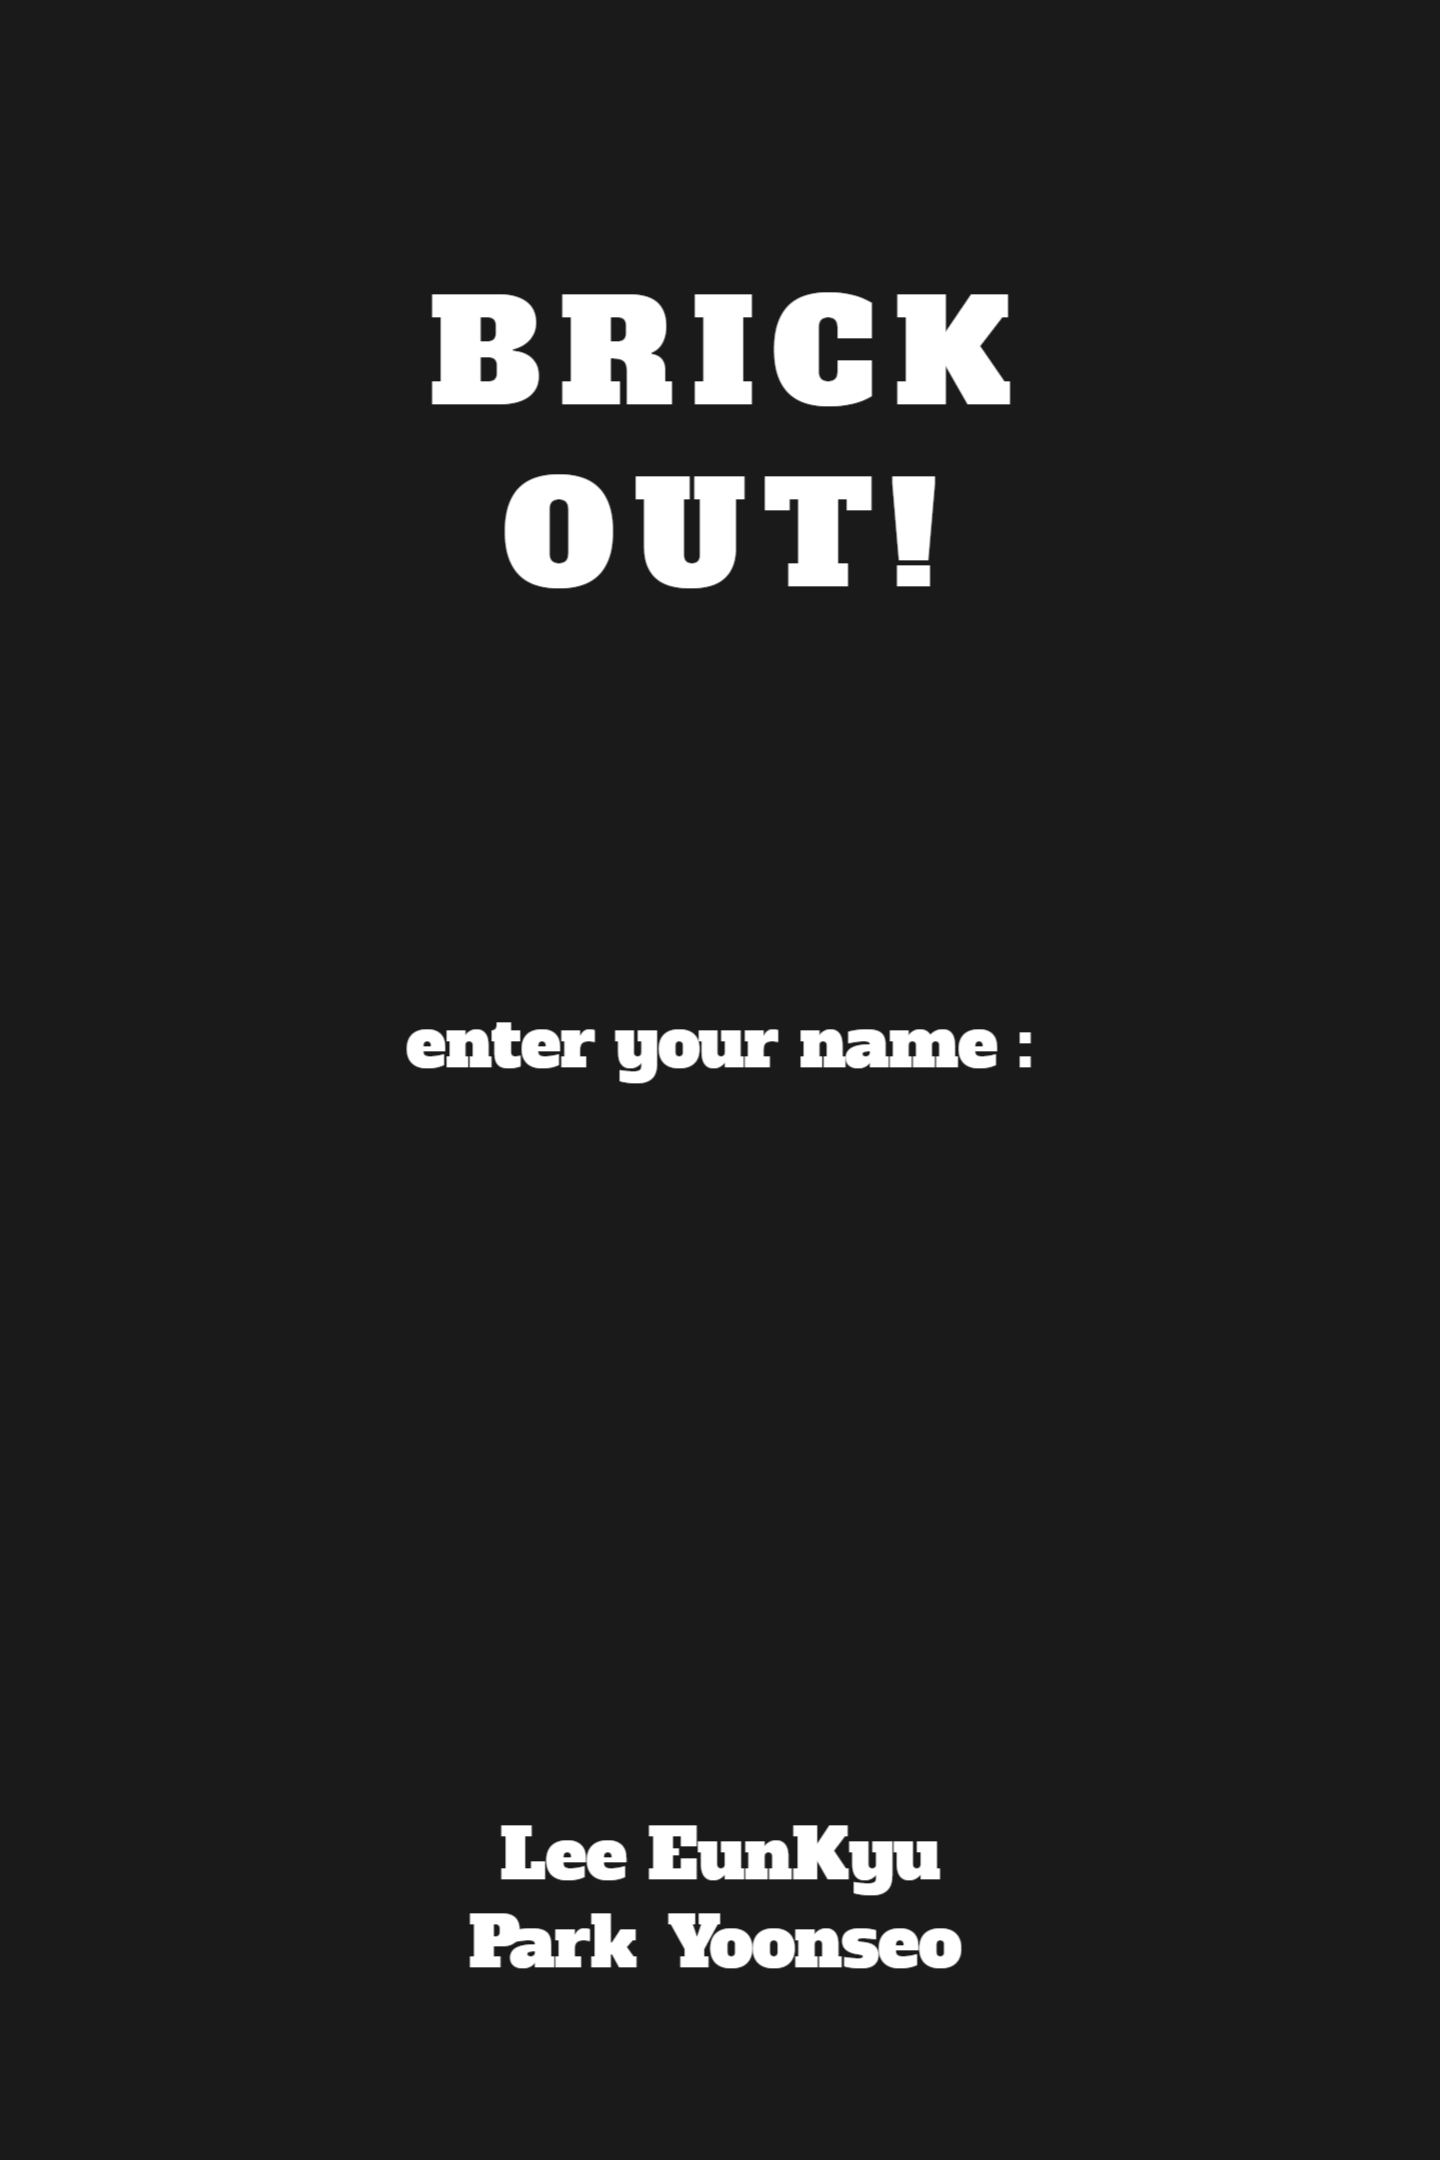
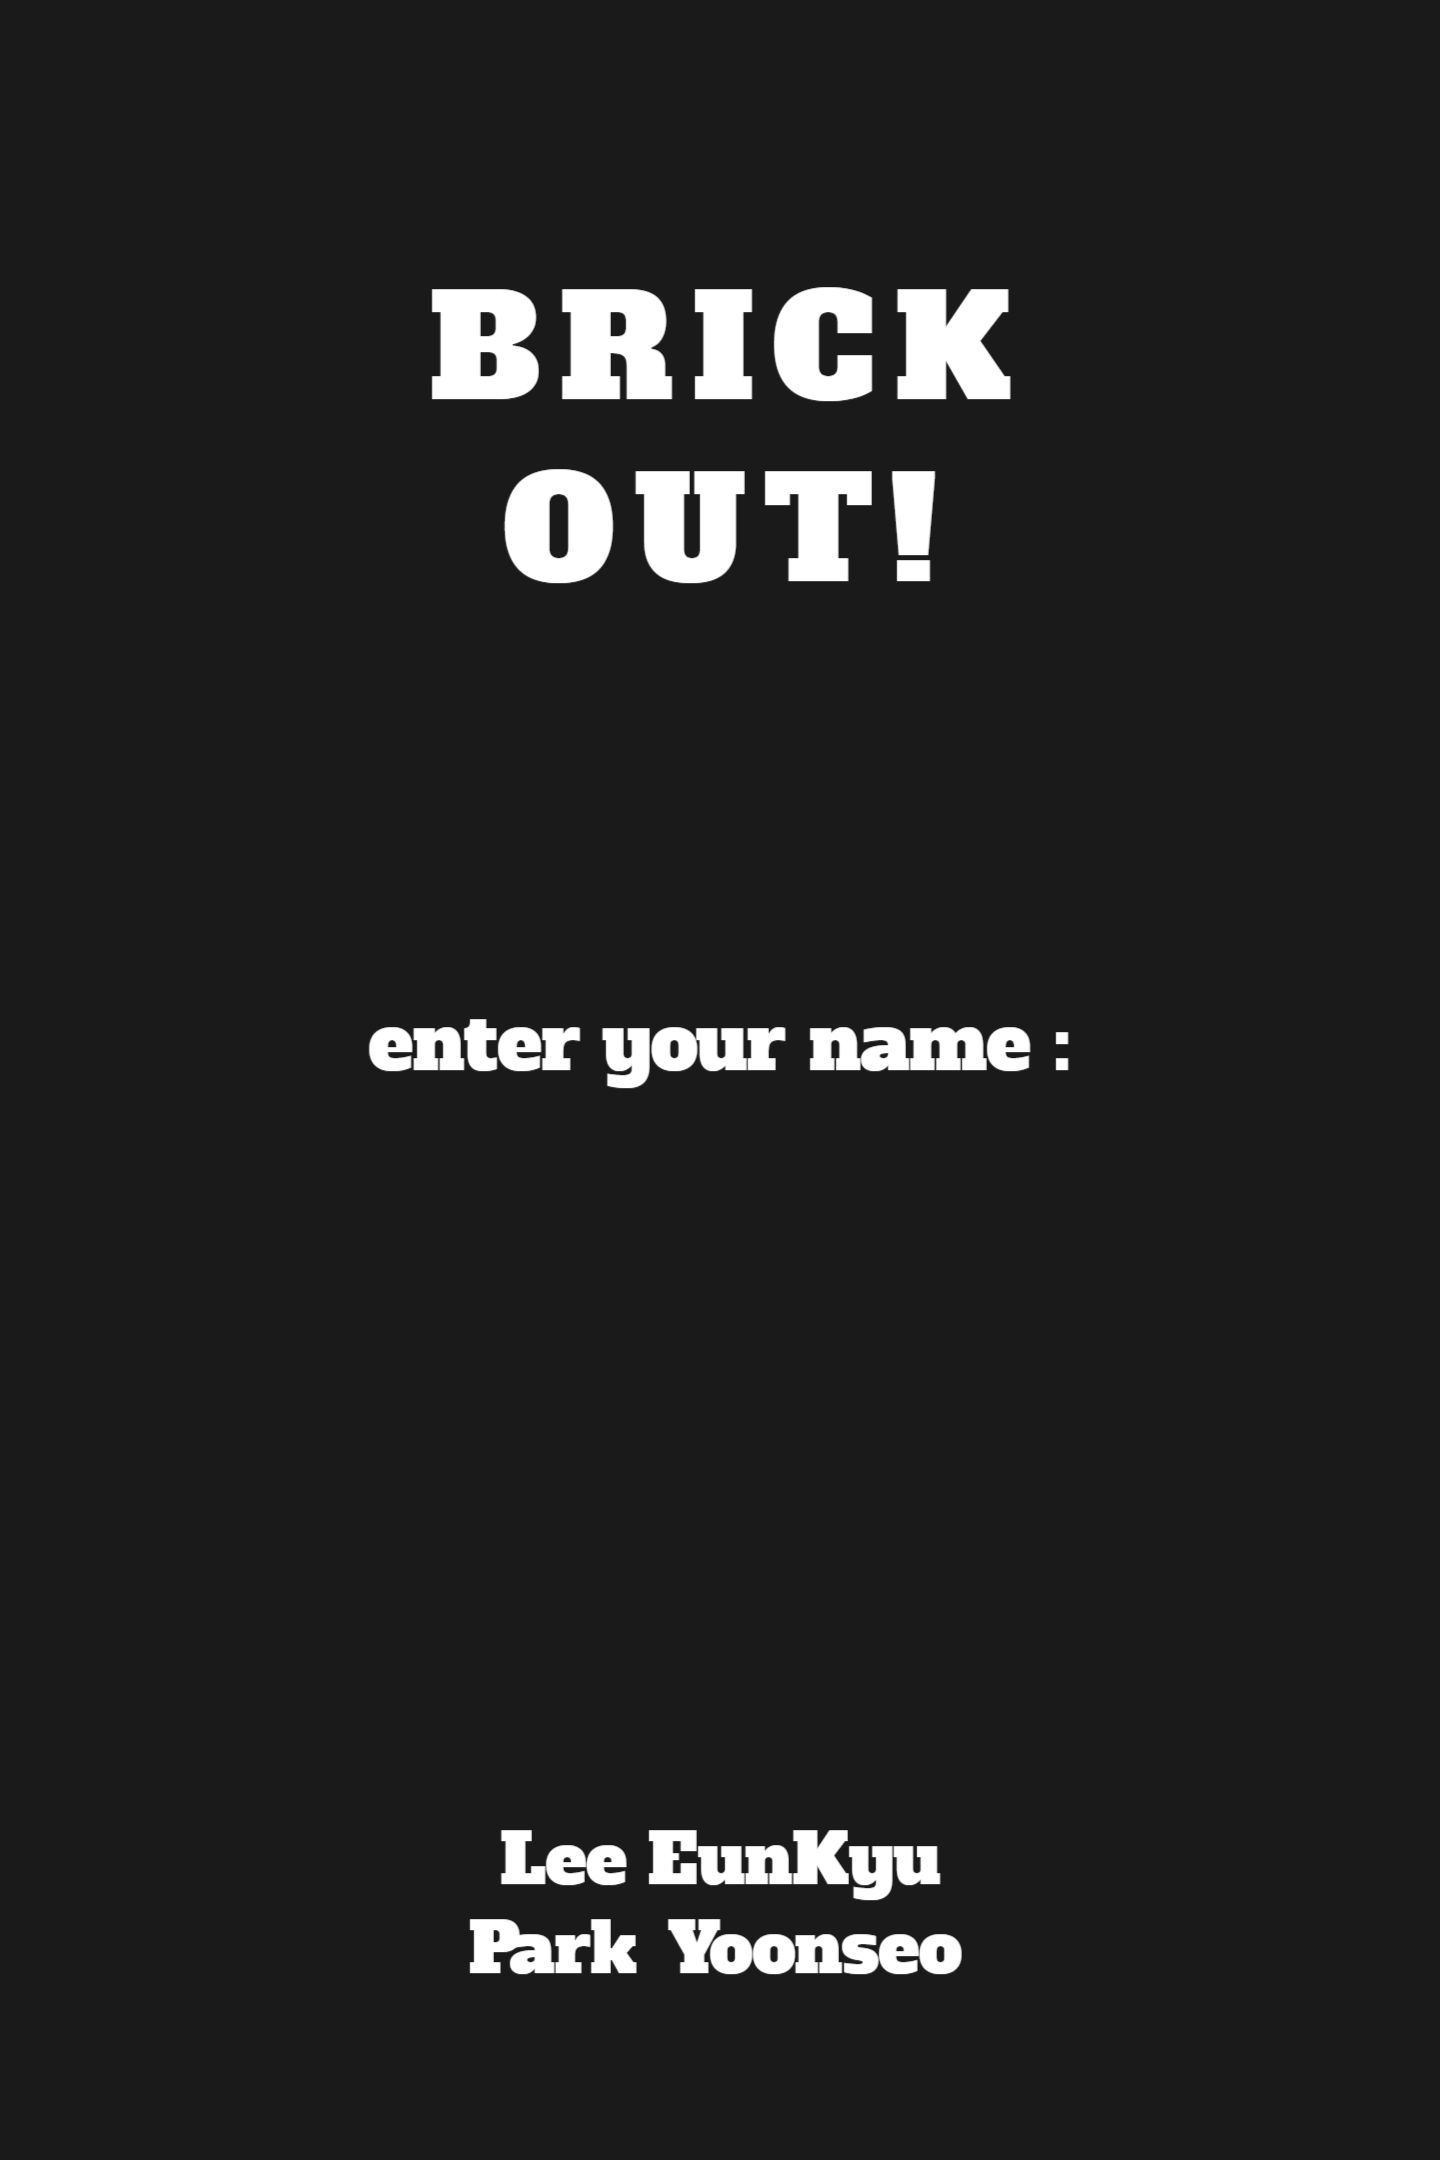
frame to frame + DifficultyFrame's image

diff --git a/src/DifficultyFrame.java b/src/DifficultyFrame.java
@@ -5,39 +5,34 @@ import java.awt.event.*;
 public class DifficultyFrame {
     private AnimationWriter AW;
     private MovingBall MB;
+    private Box box;
     private JFrame difficulty_frame;            // 여기서 정의해줘야 다른 함수에서도 사용 가능
     private boolean visible;
 
-    public DifficultyFrame(AnimationWriter aw, MovingBall mb) {
+    public DifficultyFrame(AnimationWriter aw, MovingBall mb, Box box) {
         this.AW = aw;
         this.MB = mb;
+        this.box = box;
+
+        Image beforeImage = new ImageIcon(getClass().getResource("/image/background3.png")).getImage();
+        Image afterImage = beforeImage.getScaledInstance(box.SizeOf_width(), box.SizeOf_height(), Image.SCALE_SMOOTH);
+        ImageIcon backgroundIcon3 = new ImageIcon(afterImage);
 
         difficulty_frame = new JFrame();                 // JFrame 객체 생성
-        difficulty_frame.setDefaultCloseOperation(WindowConstants.EXIT_ON_CLOSE);
         difficulty_frame.setTitle("DIFFICULTY");                // title
-        difficulty_frame.setSize( 480, 720);        // frame size
+        difficulty_frame.setSize( box.SizeOf_width(), box.SizeOf_height());        // frame size
         difficulty_frame.setResizable(false);                   // 크기조절
         difficulty_frame.setLocationRelativeTo(null);
+        difficulty_frame.setDefaultCloseOperation(JFrame.EXIT_ON_CLOSE);
 
-        JPanel difficultly_panel = new JPanel();                // JPanel 객체 생성
-        difficultly_panel.setBackground(Color.black);
+        // JPanel 객체 생성
+        JPanel difficultly_panel = createPanel(backgroundIcon3, 0, 0);
+        difficultly_panel.setLayout(new GridBagLayout());
 
         // slow button (easy)
-        JButton easyButton = new JButton("Easy");
-        easyButton.setBorder(BorderFactory.createLineBorder(Color.black, 1));    // 마우스 가져다 댔을 때 변화 X
-        easyButton.setPreferredSize(new Dimension(150, 60));                // 버튼 크기
-        easyButton.setBackground(Color.gray);                                           // 버튼 배경 색
-        difficultly_panel.add(easyButton);
-
-        // fast button (hard)
-        JButton hardButton = new JButton("Hard");
-        hardButton.setBorder(BorderFactory.createLineBorder(Color.black, 1));
-        hardButton.setPreferredSize(new Dimension(150, 60));
-        hardButton.setBackground(Color.gray);
-        difficultly_panel.add(hardButton);
-
-        // button Event
-        easyButton.addActionListener(new ActionListener() {         // easybutton 동작 명령 Override
+        JButton easybutton = createButton("/image/easybutton.png", "/image/easybutton2.png");
+        addButton(difficultly_panel, easybutton, 0, 0, 100, 0, 0, 0);
+        easybutton.addActionListener(new ActionListener() {
             @Override
             public void actionPerformed(ActionEvent e) {
                 difficulty_frame.setVisible(false);
@@ -46,7 +41,11 @@ public class DifficultyFrame {
                 MB.y_vel(2);
             }
         });
-        hardButton.addActionListener(new ActionListener() {         // hardbutton 동작 명령 Override
+
+        // fast button (hard)
+        JButton hardButton = createButton("/image/hardButton.png", "/image/hardButton2.png");
+        addButton(difficultly_panel, hardButton, 1, 0, 100, 50, 0, 0);
+        hardButton.addActionListener(new ActionListener() {
             @Override
             public void actionPerformed(ActionEvent e) {
                 difficulty_frame.setVisible(false);
@@ -57,9 +56,35 @@ public class DifficultyFrame {
         });
 
         difficulty_frame.add(difficultly_panel);                // frame에 panel 추가
-        difficulty_frame.setVisible(true);                      // 보이게 함
+        difficulty_frame.setVisible(false);
     }
 
+    private JPanel createPanel(ImageIcon image, int x, int y) {
+        JPanel panel = new JPanel() {
+            @Override
+            protected void paintComponent(Graphics g) {
+                g.drawImage(image.getImage(), x, y, this);
+            }
+        };
+        return panel;
+    }
+
+    private JButton createButton(String image1, String image2) {
+        ImageIcon buttonIcon = new ImageIcon(getClass().getResource(image1));
+        ImageIcon rolloverIcon = new ImageIcon(getClass().getResource(image2));
+        JButton button = new JButton(buttonIcon);
+        button.setBorder(BorderFactory.createLineBorder(Color.black, 1));
+        button.setRolloverIcon(rolloverIcon);   // 마우스를 댔을 때의 이미지설정
+        return button;
+    }
+
+    private void addButton(Container panel, Component button, int gridx, int gridy, int top, int left, int bottom, int right) {
+        GridBagConstraints gbc = new GridBagConstraints();
+        gbc.gridx = gridx;  // 행
+        gbc.gridy = gridy;  // 열
+        gbc.insets = new Insets(top, left, bottom, right);         // 여백 추가 -> 버튼 위치 조절하려고
+        panel.add(button, gbc);
+    }
     public void setvisible(boolean n) {
         visible = n;
         difficulty_frame.setVisible(visible);

diff --git a/src/MainFrame.java b/src/MainFrame.java
@@ -3,22 +3,25 @@ import java.awt.*;
 import java.awt.event.*;
 
 public class MainFrame extends JFrame {
-    private int width = 480;
-    private int height = 720;
+    private DifficultyFrame DF;
+    private Box box;
     private JFrame MainFrame;
     private JPanel mainPanel1;
     private JPanel mainPanel2;
     private boolean visible = true;
 
-    public MainFrame() {
+    public MainFrame(DifficultyFrame DF, Box box) {
+        this.DF = DF;
+        this.box = box;
+
         // background image1
         Image beforeImage = new ImageIcon(getClass().getResource("/image/background1.png")).getImage();
-        Image afterImage = beforeImage.getScaledInstance(width, height, Image.SCALE_SMOOTH);
+        Image afterImage = beforeImage.getScaledInstance(box.SizeOf_width(), box.SizeOf_height(), Image.SCALE_SMOOTH);
         ImageIcon backgroundIcon = new ImageIcon(afterImage);
 
         MainFrame = new JFrame();
         MainFrame.setTitle("Game");
-        MainFrame.setSize(width, height);
+        MainFrame.setSize(box.SizeOf_width(), box.SizeOf_height());
         MainFrame.setResizable(false);
         MainFrame.setLocationRelativeTo(null);
         MainFrame.setDefaultCloseOperation(JFrame.EXIT_ON_CLOSE);
@@ -46,7 +49,7 @@ public class MainFrame extends JFrame {
         nameArea.add(name, BorderLayout.CENTER);
         addButton(mainPanel1, nameArea, 0, 0, 200, 0, 0, 0);    // panel1에 nameArea 추가
 
-        // 확인버튼 --> efect 추가해야됨 - 패널1
+        // 확인버튼 - 패널1 -> 이름이 입력되지 않으면 file입력하는 부분에서 IOecexption뜨게되고, 이걸 try-catch로 잡아야됨
         JButton okayButton = createButton("/image/okaybutton.png", "/image/okaybutton2.png");
         addButton(mainPanel1, okayButton, 0, 1, 20, 0, 0, 0);
         okayButton.addActionListener(new ActionListener() {
@@ -56,9 +59,10 @@ public class MainFrame extends JFrame {
             }
         });
 
+
         // background image2
         Image beforeImage2 = new ImageIcon(getClass().getResource("/image/background2.png")).getImage();
-        Image afterImage2 = beforeImage2.getScaledInstance(width, height, Image.SCALE_SMOOTH);
+        Image afterImage2 = beforeImage2.getScaledInstance(box.SizeOf_width(), box.SizeOf_height(), Image.SCALE_SMOOTH);
         ImageIcon backgroundIcon2 = new ImageIcon(afterImage2);
 
         // 패널2 (Start, Ranking)
@@ -69,6 +73,14 @@ public class MainFrame extends JFrame {
         // 시작버튼 - 패널2
         JButton startButton = createButton("/image/startbutton.png", "/image/startbutton2.png");
         addButton(mainPanel2, startButton, 0, 0, 100, 0, 0, 0);
+        startButton.addActionListener(new ActionListener() {
+            @Override
+            public void actionPerformed(ActionEvent e) {
+                setvisible(false);
+                DF.setvisible(true);
+            }
+        });
+
         // 랭킹버튼 - 패널2
         JButton rankButton = createButton("/image/rankingbutton.png", "/image/rankingbutton2.png");
         addButton(mainPanel2, rankButton, 0, 1, 20, 0, 0, 0);

diff --git a/src/AnimationManager.java b/src/AnimationManager.java
@@ -17,12 +17,11 @@ public class AnimationManager {
 
         BounceController BC = new BounceController(MB, AW, Pd);
 
-        // Login
-
-
         // Difficulty
-        DifficultyFrame DF = new DifficultyFrame(AW, MB);
+        DifficultyFrame DF = new DifficultyFrame(AW, MB, box);
 
+        // Main
+        MainFrame MF = new MainFrame(DF, box);
 
         BC.runAnimation();
     }

diff --git a/src/Pedal.java b/src/Pedal.java
@@ -18,5 +18,5 @@ public class Pedal {
 
     // setter
     public void moveLeft() { if (x_pos > 0 ) x_pos -= velocity; }
-    public void moveRight() { if (x_pos + width < 480 ) x_pos += velocity; }    // 480보다 작을 때
+    public void moveRight() { if (x_pos + width < 465 ) x_pos += velocity; }    // 480보다 작을 때
 }
